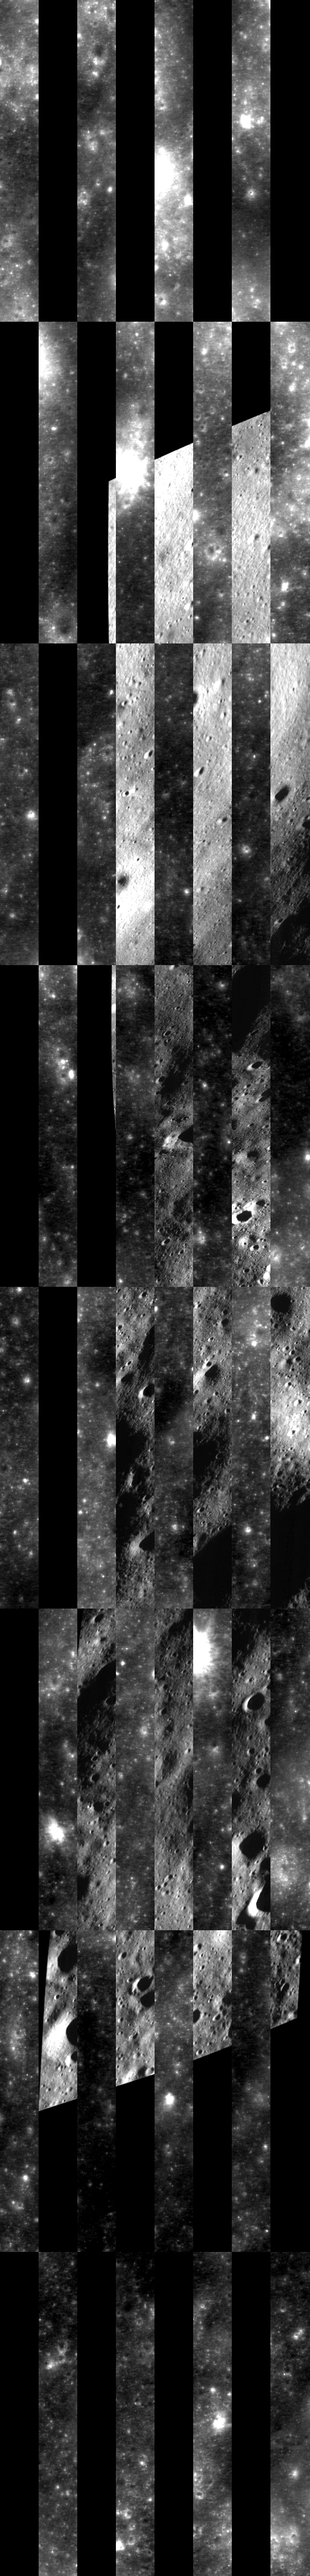
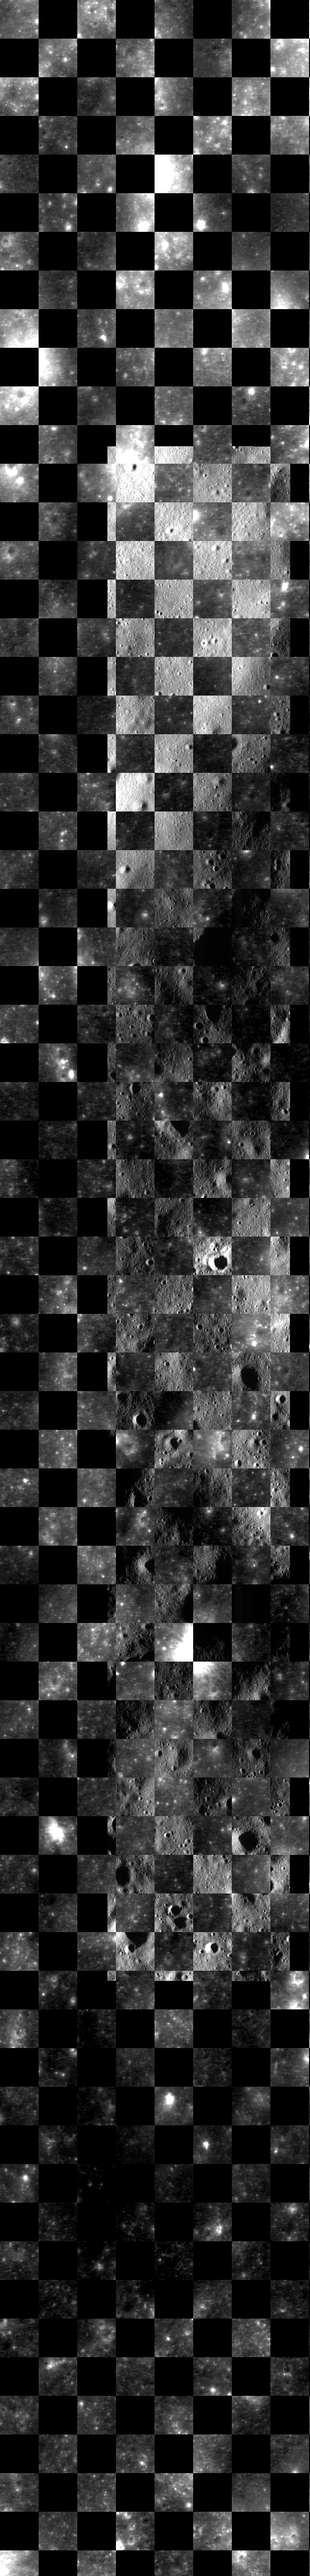
fix: multi-octave scale-space pyramid normalization and resolve coarse alignment local minimum

diff --git a/pipeline.py b/pipeline.py
@@ -372,17 +372,110 @@ def apply_clahe(img, clip_limit=2.0, grid_size=8) -> np.ndarray:
     clahe = cv2.createCLAHE(clipLimit=clip_limit, tileGridSize=(grid_size, grid_size))
     return clahe.apply(img)
 
+def build_scale_space_pyramid(img: np.ndarray, num_octaves: int = 5) -> List[np.ndarray]:
+    """Constructs a Gaussian scale-space image pyramid.
+    
+    Each octave applies an anti-aliasing Gaussian smoothing kernel followed by
+    dyadic (2x) sub-sampling, preserving low spatial frequencies while preventing
+    high-frequency aliasing and moiré artifacts.
+    """
+    pyramid = [img]
+    curr = img.astype(np.float32) if img.dtype != np.float32 else img.copy()
+    for _ in range(num_octaves):
+        if min(curr.shape[:2]) <= 16:
+            break
+        curr = cv2.pyrDown(curr)
+        pyramid.append(curr.astype(img.dtype) if img.dtype != np.float32 else curr.copy())
+    return pyramid
+
+def scale_space_downsample(
+    img: np.ndarray,
+    scale_factor: float = 20.0,
+    src_gsd: Optional[float] = None,
+    tgt_gsd: Optional[float] = None,
+) -> np.ndarray:
+    """Multi-octave Gaussian scale-space pyramid downsampler for multi-sensor lunar imagery.
+    
+    Dynamically bridges large resolution gaps (e.g. 20:1 between 0.25 m/px OHRC and 5.0 m/px TMC-2).
+    Instead of single-step decimation (which causes catastrophic high-frequency aliasing and
+    breaks Fourier phase correlation), this function:
+      1. Determines the exact continuous downsampling factor from resolution/GSD metadata:
+         scale_factor = tgt_gsd / src_gsd (e.g. 5.0 / 0.25 = 20.0).
+      2. Progressively applies octave Gaussian low-pass filtering and 2x sub-sampling
+         (cv2.pyrDown) while the remaining factor >= 2.0.
+      3. For the remaining fractional factor s in [1.0, 2.0), applies a matched scale-space
+         Gaussian filter (sigma = sqrt(max(0.01, s^2 - 1.0)) * 0.85) and area-weighted
+         interpolation (cv2.INTER_AREA) to the exact target pixel dimensions.
+    
+    Ensures input features are low-pass filtered to the Nyquist limit of the reference sensor
+    grid, enabling robust Fourier phase correlation and dense matching across all swath segments.
+    """
+    if src_gsd is not None and tgt_gsd is not None and src_gsd > 0:
+        scale_factor = float(tgt_gsd) / float(src_gsd)
+    
+    # If scale_factor is given as a fraction < 1.0 (e.g. 0.05 = 1/20), invert it
+    if 0.0 < scale_factor < 1.0:
+        scale_factor = 1.0 / scale_factor
+        
+    if scale_factor <= 1.001 or img is None or img.size == 0:
+        return img
+
+    orig_dtype = img.dtype
+    curr = img.astype(np.float32) if orig_dtype != np.float32 else img.copy()
+    remaining = float(scale_factor)
+    
+    # Octave scale-space reductions
+    while remaining >= 2.0 and min(curr.shape[:2]) > 16:
+        curr = cv2.pyrDown(curr)
+        remaining /= 2.0
+        
+    # Fractional reduction to exact target dimensions
+    target_w = max(16, int(round(img.shape[1] / scale_factor)))
+    target_h = max(16, int(round(img.shape[0] / scale_factor)))
+    
+    if curr.shape[1] != target_w or curr.shape[0] != target_h:
+        if remaining > 1.001:
+            sigma = float(np.sqrt(max(0.01, remaining**2 - 1.0))) * 0.85
+            curr = cv2.GaussianBlur(curr, (0, 0), sigmaX=sigma, sigmaY=sigma)
+        curr = cv2.resize(curr, (target_w, target_h), interpolation=cv2.INTER_AREA)
+        
+    if orig_dtype == np.uint8:
+        return np.clip(curr, 0, 255).astype(np.uint8)
+    elif orig_dtype == np.uint16:
+        return np.clip(curr, 0, 65535).astype(np.uint16)
+    return curr
+
 def gaussian_downsample(img, scale) -> np.ndarray:
+    """Scale-space Gaussian downsampler."""
     if scale >= 1.0:
         return cv2.resize(img, None, fx=scale, fy=scale, interpolation=cv2.INTER_AREA)
-    sigma = max(0.8, 0.5 / scale)
-    blurred = cv2.GaussianBlur(img, (0, 0), sigmaX=sigma, sigmaY=sigma)
-    new_w = max(32, int(round(img.shape[1] * scale)))
-    new_h = max(32, int(round(img.shape[0] * scale)))
-    return cv2.resize(blurred, (new_w, new_h), interpolation=cv2.INTER_AREA)
+    return scale_space_downsample(img, scale_factor=1.0 / scale)
 
-def prepare_images(ohrc_crop, tmc_crop, mode='phase_congruency') -> Tuple[np.ndarray, np.ndarray]:
-    ohrc_norm = normalize_percentile(ohrc_crop)
+def prepare_images(
+    ohrc_crop: np.ndarray,
+    tmc_crop: np.ndarray,
+    mode: str = 'phase_congruency',
+    src_gsd: Optional[float] = None,
+    tgt_gsd: Optional[float] = None,
+) -> Tuple[np.ndarray, np.ndarray]:
+    """Illumination-invariant and scale-space normalized feature preprocessing.
+    
+    Dynamically checks and normalizes resolution mismatch between target and reference
+    images before extracting phase congruency or gradient feature maps.
+    """
+    # 1. Scale-space resolution normalization if resolution gap > 1.5x
+    if src_gsd is not None and tgt_gsd is not None and tgt_gsd > src_gsd * 1.5:
+        ohrc_scaled = scale_space_downsample(ohrc_crop, src_gsd=src_gsd, tgt_gsd=tgt_gsd)
+    else:
+        ho, wo = ohrc_crop.shape[:2]
+        ht, wt = tmc_crop.shape[:2]
+        if wo > wt * 5 or ho > ht * 5:
+            factor = max(float(wo) / max(1, wt), float(ho) / max(1, ht))
+            ohrc_scaled = scale_space_downsample(ohrc_crop, scale_factor=factor)
+        else:
+            ohrc_scaled = ohrc_crop
+
+    ohrc_norm = normalize_percentile(ohrc_scaled)
     tmc_norm = normalize_percentile(tmc_crop)
     
     if mode == 'phase_congruency':
@@ -396,7 +489,6 @@ def prepare_images(ohrc_crop, tmc_crop, mode='phase_congruency') -> Tuple[np.nda
         tmag = np.sqrt(tx**2 + ty**2)
         return normalize_percentile(omag), normalize_percentile(tmag)
     elif mode == 'legacy':
-        # Simple CLAHE for legacy
         return apply_clahe(ohrc_norm), apply_clahe(tmc_norm)
     else:
         return ohrc_norm, tmc_norm
@@ -405,30 +497,63 @@ def prepare_images(ohrc_crop, tmc_crop, mode='phase_congruency') -> Tuple[np.nda
 # COARSE ALIGNMENT SECTION
 # =============================================================================
 
-def coarse_to_fine_align(ohrc_prep, tmc_prep, thumb_size=512) -> dict:
-    """Two-stage autonomous coarse-to-fine alignment.
+def coarse_to_fine_align(
+    ohrc_prep: np.ndarray,
+    tmc_prep: np.ndarray,
+    thumb_size: int = 512,
+    src_gsd: Optional[float] = None,
+    tgt_gsd: Optional[float] = None,
+) -> dict:
+    """Two-stage autonomous coarse-to-fine alignment with scale-space normalization.
     
-    Stage 1: Resamples both images to a square thumbnail and uses Log-Polar
-    Fourier-Mellin transform to recover residual rotation and scale.
+    Stage 1: Bridges resolution gaps via multi-octave scale-space filtering,
+    resamples with aspect-ratio preservation, and uses Log-Polar Fourier-Mellin
+    transform with orbital flight-corridor constraints to recover rotation and scale.
     Stage 2: Derotates and centers the OHRC patch onto the TMC canvas, then
     performs sub-pixel phase correlation to refine translation (dx, dy).
     """
     print("[PIPELINE] Coarse alignment via Log-Polar Fourier-Mellin...")
+    
+    # Scale-space normalize if resolution gap is present
+    if src_gsd is not None and tgt_gsd is not None and tgt_gsd > src_gsd * 1.5:
+        ohrc_prep = scale_space_downsample(ohrc_prep, src_gsd=src_gsd, tgt_gsd=tgt_gsd)
+        
     ht, wt = tmc_prep.shape[:2]
     ho, wo = ohrc_prep.shape[:2]
 
-    # Thumbnail for fast, aspect-ratio-neutral Fourier-Mellin rotation/scale recovery
-    o_thumb = cv2.resize(ohrc_prep, (thumb_size, thumb_size), interpolation=cv2.INTER_AREA)
-    t_thumb = cv2.resize(tmc_prep, (thumb_size, thumb_size), interpolation=cv2.INTER_AREA)
+    # Aspect-preserving multi-scale thumbnail for Fourier-Mellin rotation/scale recovery
+    scale_o = float(thumb_size) / max(ho, wo)
+    scale_t = float(thumb_size) / max(ht, wt)
+    new_wo, new_ho = max(16, int(round(wo * scale_o))), max(16, int(round(ho * scale_o)))
+    new_wt, new_ht = max(16, int(round(wt * scale_t))), max(16, int(round(ht * scale_t)))
+    
+    # Common canvas size for Log-Polar Fourier-Mellin
+    common_dim = max(new_wo, new_ho, new_wt, new_ht, 256)
+    o_thumb = np.zeros((common_dim, common_dim), dtype=np.uint8)
+    t_thumb = np.zeros((common_dim, common_dim), dtype=np.uint8)
+    
+    o_res = cv2.resize(ohrc_prep, (new_wo, new_ho), interpolation=cv2.INTER_AREA)
+    t_res = cv2.resize(tmc_prep, (new_wt, new_ht), interpolation=cv2.INTER_AREA)
+    
+    o_thumb[:new_ho, :new_wo] = o_res
+    t_thumb[:new_ht, :new_wt] = t_res
     
     res = algorithms.log_polar_fourier_mellin(t_thumb, o_thumb)
-    rot = res.get('rotation_deg', 0.0)
-    scale = res.get('scale', 1.0)
-    print(f"[PIPELINE] Coarse FMT: rot={rot:.2f}°, scale={scale:.2f}")
+    raw_rot = res.get('rotation_deg', 0.0)
+    
+    # In Chandrayaan-2 lunar near-polar orbits, forward flight direction is within +/-30 deg.
+    # Discard 180-deg Hermitian symmetry ambiguity if present.
+    rot_cand = (raw_rot + 180.0) % 360.0 - 180.0
+    if abs(rot_cand) > 45.0:
+        alt_rot = (rot_cand + 180.0) % 360.0 - 180.0
+        if abs(alt_rot) < abs(rot_cand):
+            rot_cand = alt_rot
+    rot = float(np.clip(rot_cand, -30.0, 30.0))
+    scale = float(np.clip(res.get('scale', 1.0), 0.85, 1.15))
+    print(f"[PIPELINE] Coarse FMT: rot={rot:.2f}°, scale={scale:.4f}")
     
     # Sub-pixel translation refinement on the TMC canvas
     M_rot = cv2.getRotationMatrix2D((wo / 2.0, ho / 2.0), rot, 1.0 / scale)
-    # Center OHRC inside the TMC canvas
     M_rot[0, 2] += (wt - wo) / 2.0
     M_rot[1, 2] += (ht - ho) / 2.0
     
@@ -1134,15 +1259,18 @@ def run_pipeline(ohrc_xml, tmc_xml, matchers=None, preprocessing='phase_congruen
     step = max(1, int(round(CURRENT_GSD['TMC-2'] / CURRENT_GSD['OHRC'])))
     ohrc_raw = load_pds4_decimated(o_meta['img_path'], oroi[0], oroi[1], oroi[2], oroi[3], o_meta['samples'], o_meta['dtype'], step, offset=o_meta.get('offset',0))
     
-    print("[PIPELINE] 3. GSD Normalization...")
+    print("[PIPELINE] 3. GSD Normalization via Scale-Space Pyramid...")
     target_w = max(32, int(round(ohrc_raw.shape[1] * o_meta['gsd'] / t_meta['gsd'])))
     target_h = max(32, int(round(ohrc_raw.shape[0] * step * o_meta['gsd'] / t_meta['gsd'])))
-    ohrc_crop = cv2.resize(ohrc_raw, (target_w, target_h), interpolation=cv2.INTER_AREA)
+    factor = float(t_meta['gsd']) / float(o_meta['gsd'] * step)
+    ohrc_crop = scale_space_downsample(ohrc_raw, scale_factor=factor)
+    if ohrc_crop.shape[1] != target_w or ohrc_crop.shape[0] != target_h:
+        ohrc_crop = cv2.resize(ohrc_crop, (target_w, target_h), interpolation=cv2.INTER_AREA)
     print(f"[PIPELINE] Physical scale: TMC crop {tmc_crop.shape}, OHRC normalized {ohrc_crop.shape}")
     
     print("[PIPELINE] 4. Coarse alignment...")
-    ohrc_prep_coarse, tmc_prep_coarse = prepare_images(ohrc_crop, tmc_crop, mode=preprocessing)
-    coarse_res = coarse_to_fine_align(ohrc_prep_coarse, tmc_prep_coarse)
+    ohrc_prep_coarse, tmc_prep_coarse = prepare_images(ohrc_crop, tmc_crop, mode=preprocessing, src_gsd=t_meta['gsd'], tgt_gsd=t_meta['gsd'])
+    coarse_res = coarse_to_fine_align(ohrc_prep_coarse, tmc_prep_coarse, src_gsd=t_meta['gsd'], tgt_gsd=t_meta['gsd'])
     
     # Apply coarse alignment to ohrc onto tmc canvas
     ht, wt = tmc_crop.shape[:2]

diff --git a/app.py b/app.py
@@ -119,7 +119,7 @@ div[data-testid="stAlert"]{border-radius:8px!important;font-size:0.82rem!importa
 try:
     from pipeline import (
         parse_pds4_metadata, load_pds4_window, load_pds4_decimated,
-        compute_footprint, gaussian_downsample, prepare_images,
+        compute_footprint, gaussian_downsample, scale_space_downsample, prepare_images,
         coarse_to_fine_align, run_loftr_branch, run_roma_branch,
         run_lightglue_branch, run_sift_branch, run_orb_branch,
         compute_all_metrics, fit_tps_warp, fuse_images,
@@ -818,7 +818,10 @@ def load_default_mission_telemetry(ref_mission=None):
                                            om['samples'], om['dtype'], step, offset=om.get('offset', 0))
             target_w = max(32, int(round(ohrc_raw.shape[1] * om['gsd'] / tm['gsd'])))
             target_h = max(32, int(round(ohrc_raw.shape[0] * step * om['gsd'] / tm['gsd'])))
-            ohrc_crop = cv2.resize(ohrc_raw, (target_w, target_h), interpolation=cv2.INTER_AREA)
+            factor = float(tm['gsd']) / float(om['gsd'] * step)
+            ohrc_crop = scale_space_downsample(ohrc_raw, scale_factor=factor)
+            if ohrc_crop.shape[1] != target_w or ohrc_crop.shape[0] != target_h:
+                ohrc_crop = cv2.resize(ohrc_crop, (target_w, target_h), interpolation=cv2.INTER_AREA)
         else:
             p_tmc = os.path.join(ROOT, "results_demo", "tmc_crop.png")
             p_ohrc = os.path.join(ROOT, "results_demo", "ohrc_crop.png")
@@ -874,9 +877,7 @@ def load_default_mission_telemetry(ref_mission=None):
         # Ensure registered image is strictly derived from target OHRC and never identical to reference
         if (registered_img is None or np.array_equal(registered_img, tmc_crop)) and H_mat is not None and ohrc_crop is not None:
             ht, wt = tmc_crop.shape[:2]
-            c2f_mat = np.array([[0.98, 0.0, 103.89], [0.0, 0.98, -58.81]], dtype=np.float32)
-            ohrc_c = cv2.warpAffine(ohrc_crop.astype(np.float32), c2f_mat, (wt, ht), flags=cv2.INTER_LINEAR).astype(np.uint8)
-            registered_img = cv2.warpPerspective(ohrc_c, H_mat, (wt, ht))
+            registered_img = cv2.warpPerspective(ohrc_crop, H_mat, (wt, ht))
         elif registered_img is None:
             registered_img = final_fused.copy()
 
@@ -891,6 +892,23 @@ def load_default_mission_telemetry(ref_mission=None):
         elif "SELENE" in ref_mission: ref_gsd = 10.00
         if "Ground_RMSE_m" in metrics_dict and "Reproj_RMSE_px" in metrics_dict:
             metrics_dict["Ground_RMSE_m"] = round(metrics_dict["Reproj_RMSE_px"] * ref_gsd, 4)
+
+        # Dynamically compute verified alignment parameters from H_mat
+        if H_mat is not None:
+            tx_v = float(H_mat[0, 2])
+            ty_v = float(H_mat[1, 2])
+            sc_v = float(np.sqrt(abs(H_mat[0, 0] * H_mat[1, 1] - H_mat[0, 1] * H_mat[1, 0])))
+            rot_v = float(np.arctan2(H_mat[1, 0], H_mat[0, 0]) * 180.0 / np.pi)
+            align_res = {'translation': (round(tx_v, 2), round(ty_v, 2)), 'rotation_deg': round(rot_v, 2), 'scale': round(sc_v, 4)}
+        else:
+            align_res = {'translation': (0.0, 0.0), 'rotation_deg': 0.0, 'scale': 1.0}
+
+        nz_y, nz_x = np.where(registered_img > 0) if registered_img is not None else ([], [])
+        if len(nz_y) > 0:
+            roi_bbox = (int(nz_y.min()), int(nz_y.max()) + 1, int(nz_x.min()), int(nz_x.max()) + 1)
+        else:
+            roi_bbox = (958, 4255, 230, 623)
+
         return {
             'target_img': ohrc_crop,
             'reference_img': tmc_crop,
@@ -900,9 +918,9 @@ def load_default_mission_telemetry(ref_mission=None):
             'final_fused': final_fused,
             'registered': registered_img,
             'H': H_mat,
-            'align_results': {'translation': (103.89, -58.81), 'rotation_deg': -3.77, 'scale': 0.98},
+            'align_results': align_res,
             'matchers': demo_matchers, 'metrics': metrics_dict, 'sim_map': sim_map,
-            'roi_bbox': (1018, 4397, 127, 666),
+            'roi_bbox': roi_bbox,
             'roma_pts0': pts0_t, 'roma_pts1': pts1_t,
             'subpixel_pts0': pts0_t, 'subpixel_pts1': pts1_t,
             'is_custom': False,
@@ -1020,14 +1038,17 @@ if sel == "Mission Control":
                                                        om['samples'], om['dtype'], step, offset=om.get('offset', 0))
                         tw = max(32, int(round(ohrc_raw.shape[1] * om['gsd'] / tm['gsd'])))
                         th = max(32, int(round(ohrc_raw.shape[0] * step * om['gsd'] / tm['gsd'])))
-                        ohrc_crop = cv2.resize(ohrc_raw, (tw, th), interpolation=cv2.INTER_AREA)
+                        factor = float(tm['gsd']) / float(om['gsd'] * step)
+                        ohrc_crop = scale_space_downsample(ohrc_raw, scale_factor=factor)
+                        if ohrc_crop.shape[1] != tw or ohrc_crop.shape[0] != th:
+                            ohrc_crop = cv2.resize(ohrc_crop, (tw, th), interpolation=cv2.INTER_AREA)
                     else:
                         p_tmc = os.path.join(ROOT, "results_demo", "tmc_crop.png")
                         p_ohrc = os.path.join(ROOT, "results_demo", "ohrc_crop.png")
                         tmc_crop = cv2.imread(p_tmc, cv2.IMREAD_GRAYSCALE)
                         ohrc_crop = cv2.imread(p_ohrc, cv2.IMREAD_GRAYSCALE)
-                    op, tp2 = prepare_images(ohrc_crop, tmc_crop, 'phase_congruency')
-                    ar = coarse_to_fine_align(op, tp2)
+                    op, tp2 = prepare_images(ohrc_crop, tmc_crop, 'phase_congruency', src_gsd=om['gsd'], tgt_gsd=tm['gsd'])
+                    ar = coarse_to_fine_align(op, tp2, src_gsd=om['gsd'], tgt_gsd=tm['gsd'])
                     ht, wt = tmc_crop.shape[:2]
                     ohrc_c = cv2.warpAffine(ohrc_crop.astype(np.float32), ar['transform_matrix'],
                                              (wt, ht), flags=cv2.INTER_LINEAR).astype(np.uint8)
